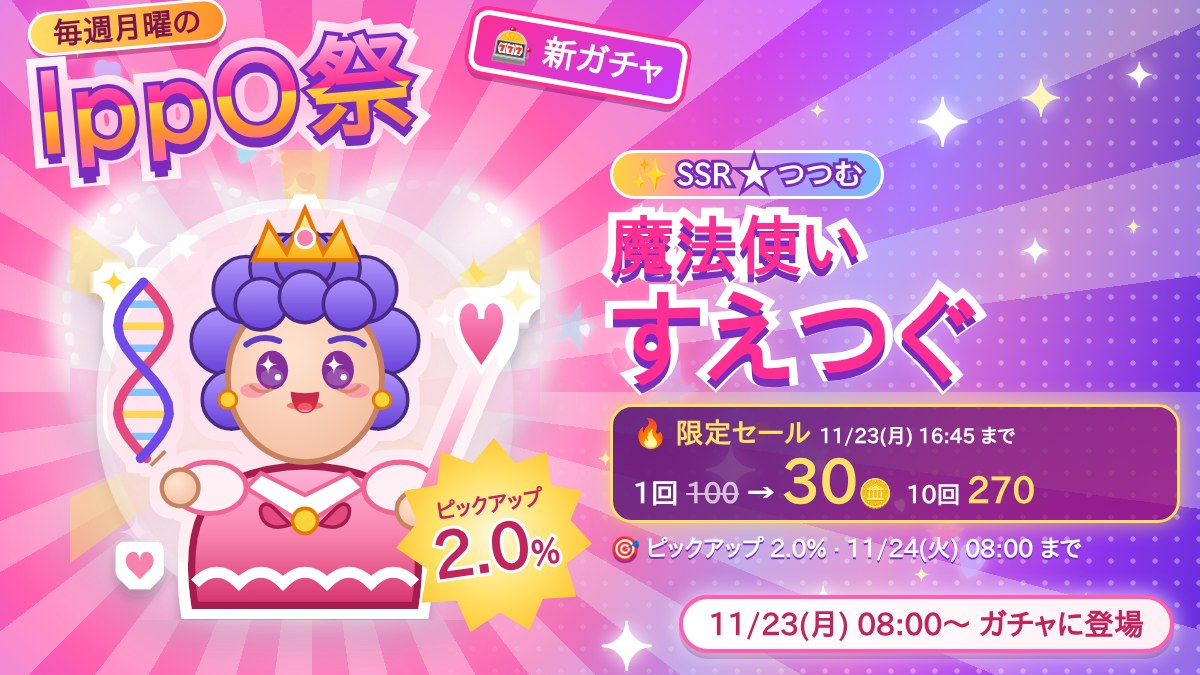
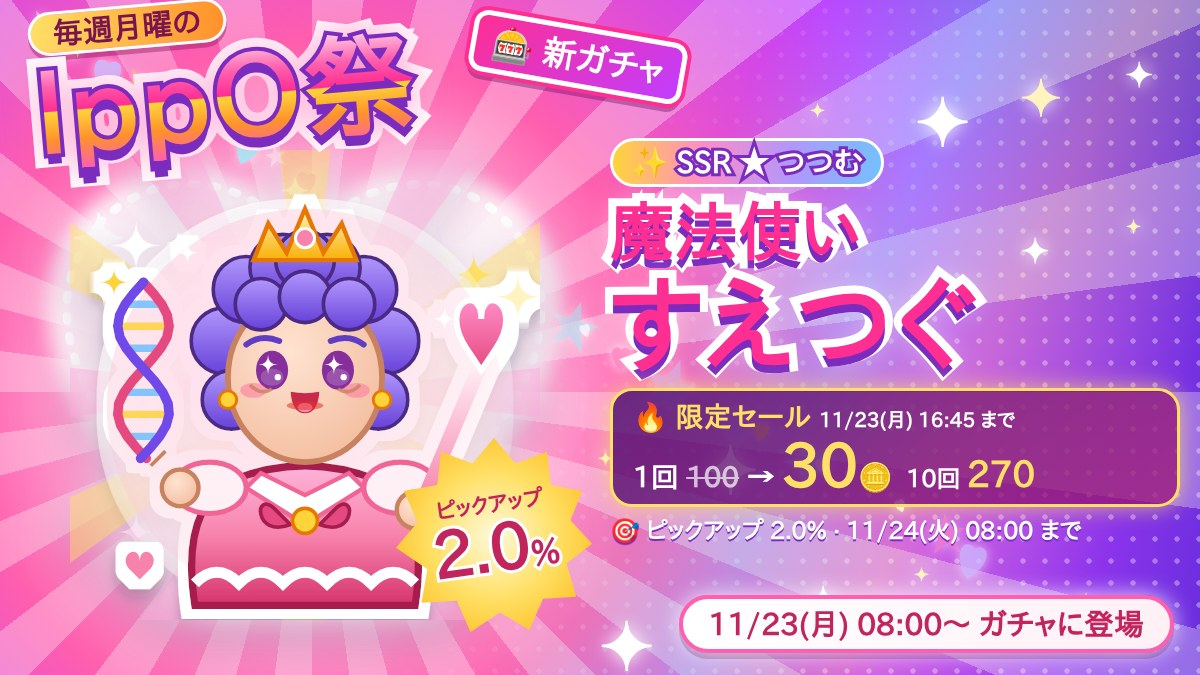
魔法使いすえつぐにパッシブ「セントラルドグマ」(控えで生きているあいだ毎ターン味方全員の HP を 10% 回復)・バナーと予告を更新
Claude-Session: https://claude.ai/code/session_0131LAB3VBSEDYy6z21kYLHB

Changed region(s): [[0.4933, 0.1867, 0.9867, 0.84]]

diff --git a/tools/make_banners.js b/tools/make_banners.js
@@ -64,18 +64,19 @@ function festHtml(pk, at, right, { stamp = '期間限定' } = {}) {
     </div>
     <div class="badge" style="left:396px;top:438px;width:196px;height:196px;background:radial-gradient(#fff9db,#ffe066 45%,#fab005);color:#c2255c;filter:drop-shadow(0 6px 0 rgba(120,0,60,.3))"><div style="transform:rotate(-8deg)"><div style="font-size:22px">ピックアップ</div><div style="font-size:64px;line-height:1;-webkit-text-stroke:6px #fff;paint-order:stroke fill">${pk.rate.toFixed(1)}<small style="font-size:34px">%</small></div></div></div>
     <div style="position:absolute;left:470px;top:26px;transform:rotate(10deg);padding:6px 16px;border:5px solid #fff;border-radius:14px;color:#fff;font-size:34px;background:linear-gradient(135deg,#ff2e93,#c13dff);box-shadow:0 0 0 4px #ff2e93,0 8px 0 rgba(90,0,80,.35)">${esc(stamp)}</div>
-    <div style="position:absolute;left:610px;top:150px;width:570px;display:grid;gap:12px">${right}</div>
+    <div style="position:absolute;left:610px;top:138px;width:570px;display:grid;gap:10px">${right}</div>
     <div class="date" style="right:26px;bottom:22px;background:linear-gradient(90deg,#fff,#fff0f6);color:#c2255c;border:4px solid #ff5fae;box-shadow:0 0 22px rgba(255,255,255,.8),0 6px 0 rgba(90,0,80,.3)">${esc(fmt(at))}〜 ガチャに登場</div>
   </div>`;
 }
-function festCharRight(c, sk) {
-  const n = [...c.name], cut = c.name.startsWith('魔法使い') ? 4 : Math.ceil(n.length / 2), l1 = n.slice(0, cut).join(''), l2 = n.slice(cut).join('');
+function festCharRight(c, sk, { withSkill = true } = {}) {
+  const ps = withSkill && cards.CARD_PASSIVE[c.id], n = [...c.name], cut = c.name.startsWith('魔法使い') ? 4 : Math.ceil(n.length / 2), l1 = n.slice(0, cut).join(''), l2 = n.slice(cut).join('');
   const big = (t, fs) => `<div style="font-size:${fs}px;line-height:1.08;white-space:nowrap;color:#ff2e93;-webkit-text-stroke:16px #fff;paint-order:stroke fill;text-shadow:0 8px 0 #7b2cbf,0 0 30px rgba(255,255,255,.7)">${esc(t)}</div>`;
   return `<div><span style="display:inline-block;padding:4px 18px;border-radius:999px;background:linear-gradient(90deg,#ffd43b,#ff8cc6,#b197fc,#74c0fc);color:#fff;font-size:30px;-webkit-text-stroke:6px #7b2cbf;paint-order:stroke fill;border:3px solid #fff">✨ ${esc(c.rarity)} ★ ${esc(cards.TYPES?.[c.type]?.name || '')}</span></div>
-    <div>${big(l1, 64)}${big(l2, 104)}</div>
-    <div style="padding:14px 20px;border-radius:24px;background:linear-gradient(135deg,rgba(70,10,110,.78),rgba(160,20,110,.7));border:3px solid #ffb3d9;box-shadow:0 0 24px rgba(255,140,198,.8),inset 0 0 18px rgba(255,255,255,.15);color:#fff">
+    <div>${big(l1, ps ? 52 : 64)}${big(l2, ps ? 84 : 104)}</div>
+    ${withSkill ? `    <div style="padding:${ps ? '10px 18px' : '14px 20px'};border-radius:24px;background:linear-gradient(135deg,rgba(70,10,110,.78),rgba(160,20,110,.7));border:3px solid #ffb3d9;box-shadow:0 0 24px rgba(255,140,198,.8),inset 0 0 18px rgba(255,255,255,.15);color:#fff">
       <div style="font-size:31px;color:#ffe066;text-shadow:0 0 12px rgba(255,224,102,.7)">🧬 わざ「${esc(sk.name)}」</div>
-      <div style="margin-top:4px;font-size:22px;line-height:1.45;font-weight:800">${esc(sk.desc.replace(/\s*\([^()]*\)\s*$/, ''))}</div></div>`;
+      <div style="margin-top:4px;font-size:22px;line-height:1.45;font-weight:800">${esc(sk.desc.replace(/\s*\([^()]*\)\s*$/, ''))}</div>
+      ${cards.CARD_PASSIVE[c.id] ? `<div style="margin-top:6px;font-size:25px;color:#a5f3ff;text-shadow:0 0 12px rgba(165,243,255,.7)">💗 パッシブ「${esc(cards.PASSIVES[cards.CARD_PASSIVE[c.id]].name)}」</div><div style="font-size:20px;line-height:1.35;font-weight:800">${esc(cards.PASSIVES[cards.CARD_PASSIVE[c.id]].desc)}</div>` : ''}</div>` : ''}`;
 }
 // 新キャラ
 function charHtml(id, at) {
@@ -208,7 +209,7 @@ function bulkHtml(g) {
 function gachaHtml(n) {
   const g = gachaInfo(n), pk = g.pickups[0];
   const fp = g.pickups.find((p) => /祭/.test(p.name));
-  if (fp) return festHtml(fp, fp.start, `${festCharRight(fp.card, cards.SKILLS[fp.card.skill]).split('<div style="padding:14px')[0]}
+  if (fp) return festHtml(fp, fp.start, `${festCharRight(fp.card, cards.SKILLS[fp.card.skill], { withSkill: false })}
       ${g.sale ? `<div style="padding:10px 20px;border-radius:22px;background:linear-gradient(135deg,rgba(70,10,110,.8),rgba(160,20,110,.72));border:3px solid #ffe066;box-shadow:0 0 22px rgba(255,224,102,.7);color:#fff">
         <div style="font-size:28px;color:#ffe066">🔥 ${esc(g.sale.name)} <span style="font-size:20px;color:#fff">${esc(fmt(g.sale.end))} まで</span></div>
         <div style="font-size:28px">1回 <s style="opacity:.7">100</s> → <span style="font-size:60px;color:#ffe066;line-height:1">${g.sale.pull}</span>🪙 <span style="font-size:24px;margin-left:6px">10回 <b style="font-size:36px;color:#ffe066">${g.sale.ten}</b></span></div></div>` : ''}

diff --git a/public/app.js b/public/app.js
@@ -3727,6 +3727,7 @@ async function viewBattle(params) {
   const evText = (e) => e.k === 'item' ? (e.item === 'tea' ? `${e.p === you ? 'あなた' : '相手'}は🧋アイスティーを使った！` : `${e.p === you ? 'あなた' : '相手'}は${e.item === 'elixir' ? '💖' : '🧪'}${e.name}を使った！ ${e.card}の HP が ${e.amount} 回復`)
     : e.k === 'flinched' ? (e.sleep ? `${e.p === you ? '' : '相手の'}${e.card}は眠ってしまった！💤 (次のターン動けない)` : `${e.p === you ? '' : '相手の'}${e.card}は野獣の眼光に怯んだ！ (次のターン動けない)`)
     : e.k === 'flinch' ? (e.sleep ? `${e.p === you ? '' : '相手の'}${e.card}は眠っていて動けない…💤` : `${e.p === you ? '' : '相手の'}${e.card}は怯んで動けない！`)
+    : e.k === 'dogma' ? `🧬 ${name(e.p, e.card)}のセントラルドグマ！ ${e.healed.map((x) => `${x.card} +${x.amount}`).join('・')} 回復`
     : e.k === 'morale' ? `${e.p === you ? '' : '相手の'}${e.card}がたおれ、${e.p === you ? '味方' : '相手'}の士気が上がった！🔥 (攻撃 1.4 倍・防御 1.3 倍)`
     : e.k === 'sermon' ? `${name(e.p, e.card)}の説教！ 📢${e.to !== null ? ` ${e.p === you ? '相手の' : ''}${e.target}の攻撃力が ${e.from} → ${e.to} に下がった` : ` (${e.p === you ? '相手の' : ''}${e.target}はもう説教ずみ)`}${e.cured.length ? `。${e.cured.join('・')}の毒が治った` : ''}`
     : e.k === 'sealed' ? `🧬 ${name(e.p === 0 ? 1 : 0, e.by)}が${e.p === you ? '' : '相手の'}${e.card}の DNA を取り出した！ ${e.again ? '(もう封じられている)' : 'このバトル中、わざが使えない'}`
@@ -3865,6 +3866,7 @@ async function viewBattle(params) {
       else if (e.k === 'item') { setTimeout(() => { replay(el(e.p), 'charge'); pop(e.p, e.item === 'tea' ? '🧋 アイスティー！' : `${e.item === 'elixir' ? '💖' : '🧪'} +${e.amount}`, e.item === 'tea' ? 'skill' : 'heal'); }, t); t += 450; }
       else if (e.k === 'flinched') { setTimeout(() => { replay(el(e.p), 'hurt'); pop(e.p, e.sleep ? '💤 眠った！' : '😨 怯み！', 'skill flinch'); }, t); t += 400; }
       else if (e.k === 'flinch') { setTimeout(() => { replay(el(e.p), 'shake'); pop(e.p, '怯んで動けない…', 'tag'); }, t); t += 350; }
+      else if (e.k === 'dogma') { setTimeout(() => { replay(el(e.p), 'charge'); pop(e.p, '🧬 セントラルドグマ 回復', 'heal'); }, t); t += 450; }
       else if (e.k === 'morale') { setTimeout(() => { replay(el(e.p), 'charge'); pop(e.p, '🔥 士気UP！', 'skill morale'); }, t); t += 500; }
       else if (e.k === 'meteor') { setTimeout(() => { replay(el(e.p), 'hurt'); pop(e.p, `🌠-${e.dmg}`, 'dmg met'); }, t); t += 260; }
       else if (e.k === 'poisoned') { setTimeout(() => pop(e.p, '☠ 毒！', 'skill psn'), t); t += 250; }

diff --git a/cards.js b/cards.js
@@ -29,9 +29,11 @@ const SKILLS = {
   sweep: { name: '疾風斬り', desc: '相手の場のカードに 1.4 倍、控えのカードに 0.8 倍の無属性こうげき + 全員に毒 (毎ターン最大 HP の 8%・3 ターン)' },
 };
 // パッシブ (いつでも働く力)。morale = 士気: このカードが倒れると、生き残っている味方の攻撃 1.4 倍・防御 1.3 倍 (1 回だけ)
-const PASSIVES = { morale: { name: '士気', desc: 'たおれると、生き残っている味方の士気が上がり、攻撃 1.4 倍・防御 1.3 倍' } };
+// dogma = セントラルドグマ: このカードが控えで生きているあいだ、ターンの終わりに生きている味方全員の HP を最大 HP の 10% 回復
+const PASSIVES = { morale: { name: '士気', desc: 'たおれると、生き残っている味方の士気が上がり、攻撃 1.4 倍・防御 1.3 倍' }, dogma: { name: 'セントラルドグマ', desc: '控えで生きているあいだ、毎ターン味方全員の HP を最大 HP の 10% 回復' } };
+const DOGMA_RATE = 0.1;
 const MORALE_ATK = 1.4, MORALE_DEF = 1.3;
-const CARD_PASSIVE = { tadokoro: 'morale' };
+const CARD_PASSIVE = { tadokoro: 'morale', suetsugu: 'dogma' };
 // レア度とレベルで強くなる: R +4% / SR +8% / SSR +12%、レベル 1 つにつき +2% (Lv15 で +28%)。
 // この強さなら、はじめのデッキでも SSR のデッキに 1〜2 割は勝てる (作戦と相性で逆転できる) ことをシミュレーションで確かめた。
 // カードの基本の強さは、同じレア度どうしの 1 対 1 で勝率がほぼ 50% になるよう調整してある
@@ -397,6 +399,14 @@ function resolveTurn(state, acts, rnd) {
       ev.push({ k: 'poison', p, card: c.name, dmg, left: c.poison, bench: i !== sides[p].active });
       if (c.hp <= 0) { c.poison = 0; ev.push({ k: 'ko', p, card: c.name, bench: i !== sides[p].active }); }
     });
+  });
+  // 4.4 パッシブ「セントラルドグマ」: 控えで生きているあいだ、味方全員 (生きているカード) の HP を最大 HP の 10% 回復 (控えに何枚いても 1 回だけ)
+  [0, 1].forEach((p) => {
+    const s = sides[p], src = s.cards.find((c, i) => c.passive === 'dogma' && c.hp > 0 && i !== s.active);
+    if (!src) return;
+    const healed = [];
+    s.cards.forEach((c) => { if (c.hp <= 0 || c.hp >= c.maxHp) return; const h = Math.min(c.maxHp - c.hp, Math.max(1, Math.round(c.maxHp * DOGMA_RATE))); c.hp += h; healed.push({ card: c.name, amount: h }); });
+    if (healed.length) ev.push({ k: 'dogma', p, card: src.name, healed });
   });
   // 4.5 パッシブ「士気」: 倒れたカードに士気があれば、生き残っている味方の攻撃・防御が上がる (1 回だけ)
   [0, 1].forEach((p) => {

diff --git a/official.js b/official.js
@@ -68,6 +68,7 @@ const UPDATES = [
     text: `📣【新ガチャ予告】11/23(月) 8:00 から「毎週月曜のIppO祭」スタート！
 🩷 期間限定 SSR「魔法使いすえつぐ」がピックアップ 2% で登場 (11/24 8:00 まで。終わるとガチャに出なくなります)
 わざ「DNAを取り出す」: 1.8 倍のこうげき + 相手の場のカードは、そのバトル中ずっとわざが使えない！
+💗 パッシブ「セントラルドグマ」: 控えで生きているあいだ、毎ターン味方全員の HP を 10% 回復
 自分を魔法少女だと思っているおばさん…その魔法はホンモノ！？ ${TAG}` },
   { key: 'preview-tadokoro-2026-11-18', at: Date.parse('2026-11-18T11:25:00+09:00'), until: Date.parse('2026-11-19T08:35:00+09:00'), banner: 'char-tadokoro',
     text: `📣【新キャラ予告】明日 11/19(木) 10:30、SSR「タドコロ」がガチャに登場！

diff --git a/public/index.html b/public/index.html
@@ -227,6 +227,6 @@
 </div>
 
 <script src="/cards-art.js?v=18"></script>
-<script src="/app.js?v=107"></script>
+<script src="/app.js?v=108"></script>
 </body>
 </html>
